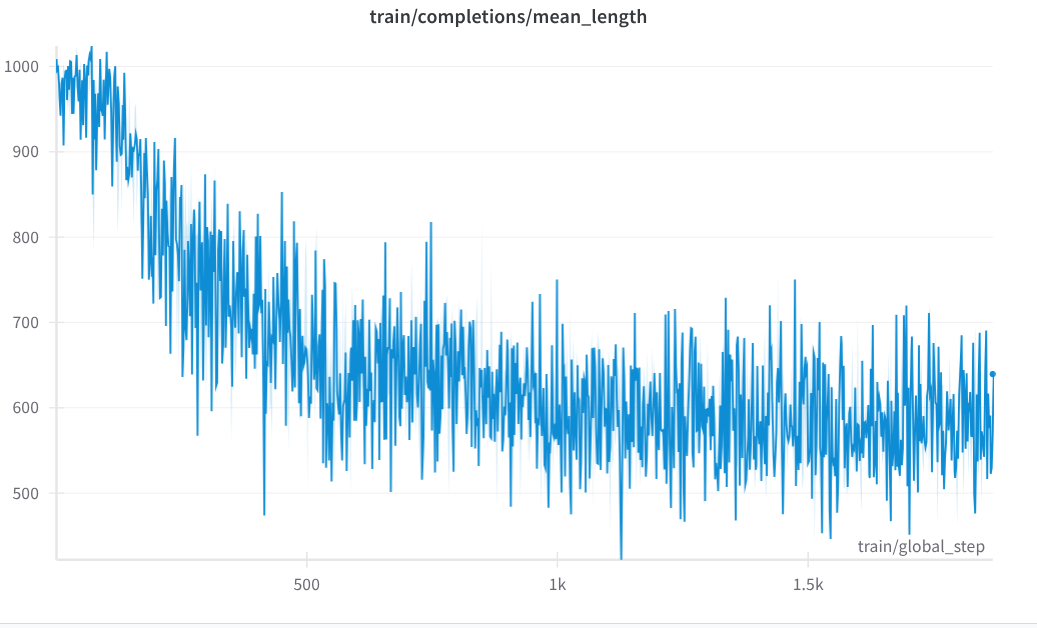
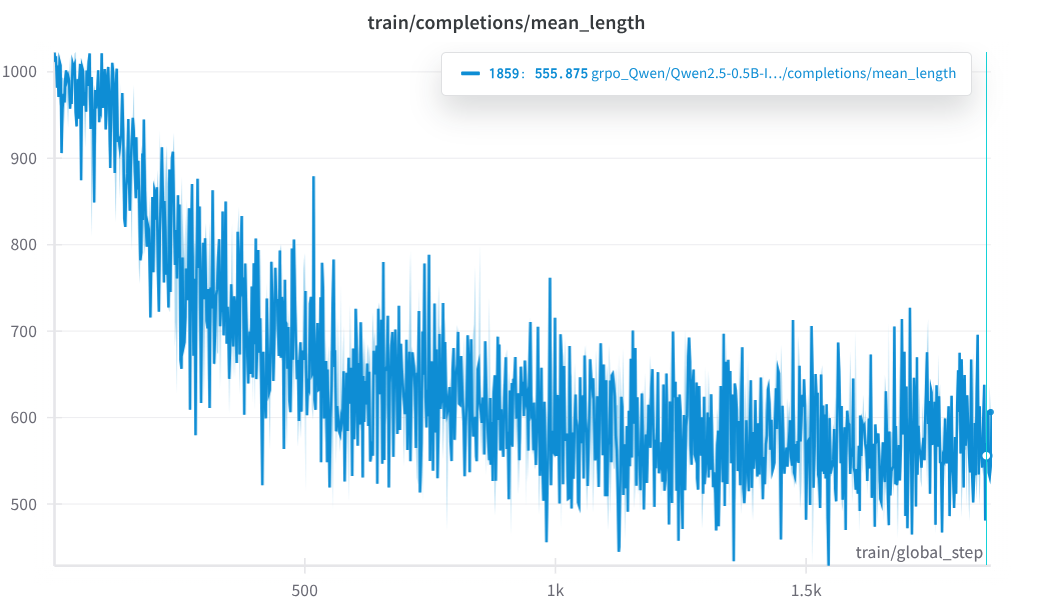
redo GRPO experiment for Qwen2.5 0.5B Instruct upate docs

diff --git a/code/analyze_token_probability.py b/code/analyze_token_probability.py
@@ -133,10 +133,10 @@ def compare_token_probability(ref_model, model, tokenizer, question: str, system
     )
 
     print("-" * 20)
-    # print(export_colored_words_to_markdown(
-    #     words=cleaned_tokens,
-    #     values=(peft_token_probs - base_token_probs)[0].tolist(),
-    # ))
+    print(export_colored_words_to_markdown(
+        words=cleaned_tokens,
+        values=(peft_token_probs - base_token_probs)[0].tolist(),
+    ))
 
 if __name__ == "__main__":
     model_name = "Qwen/Qwen2.5-3B-Instruct"

diff --git a/code/train_grpo.py b/code/train_grpo.py
@@ -84,7 +84,7 @@ def train(
 
 
 if __name__ == "__main__":
-    run_num = 1
+    run_num = 2
     model_name = "Qwen/Qwen2.5-0.5B-Instruct"
     output_dir = f"output/grpo/{model_name}/run{run_num}"
     # If we first sft the model, we need to load the lora adapter

diff --git a/code/inference.py b/code/inference.py
@@ -81,8 +81,8 @@ def evaluate_gsm8k(
 
 
 if __name__ == "__main__":
-    run_num = 5
-    train_method = "sft"
+    run_num = 2
+    train_method = "grpo"
     model_name = "Qwen/Qwen2.5-0.5B-Instruct"
 
     if train_method in ["sft", "grpo"]:

diff --git a/README.md b/README.md
@@ -91,6 +91,7 @@ We notice smaller batch size and larger learning rate gives us a better checkpoi
 ### Training
 
 ![correctness_reward](docs/training/0.5B_Instruct/train_correctness_reward.png)
+![format_reward](docs/training/0.5B_Instruct/train_strict_format_reward.png)
 ![completion_length](docs/training/0.5B_Instruct/train_completion_length.png)
 
 ### GSM8K Eval
@@ -100,4 +101,4 @@ We notice smaller batch size and larger learning rate gives us a better checkpoi
 | Base  | 0.0%   |  |
 | SFT   | 19.6%  |  |
 | SFT   | 20.3%  | Append "Let's think step by step" in user turn |
-| GRPO  | 37.0%  |  |
+| GRPO  | 34.3%  |  |
